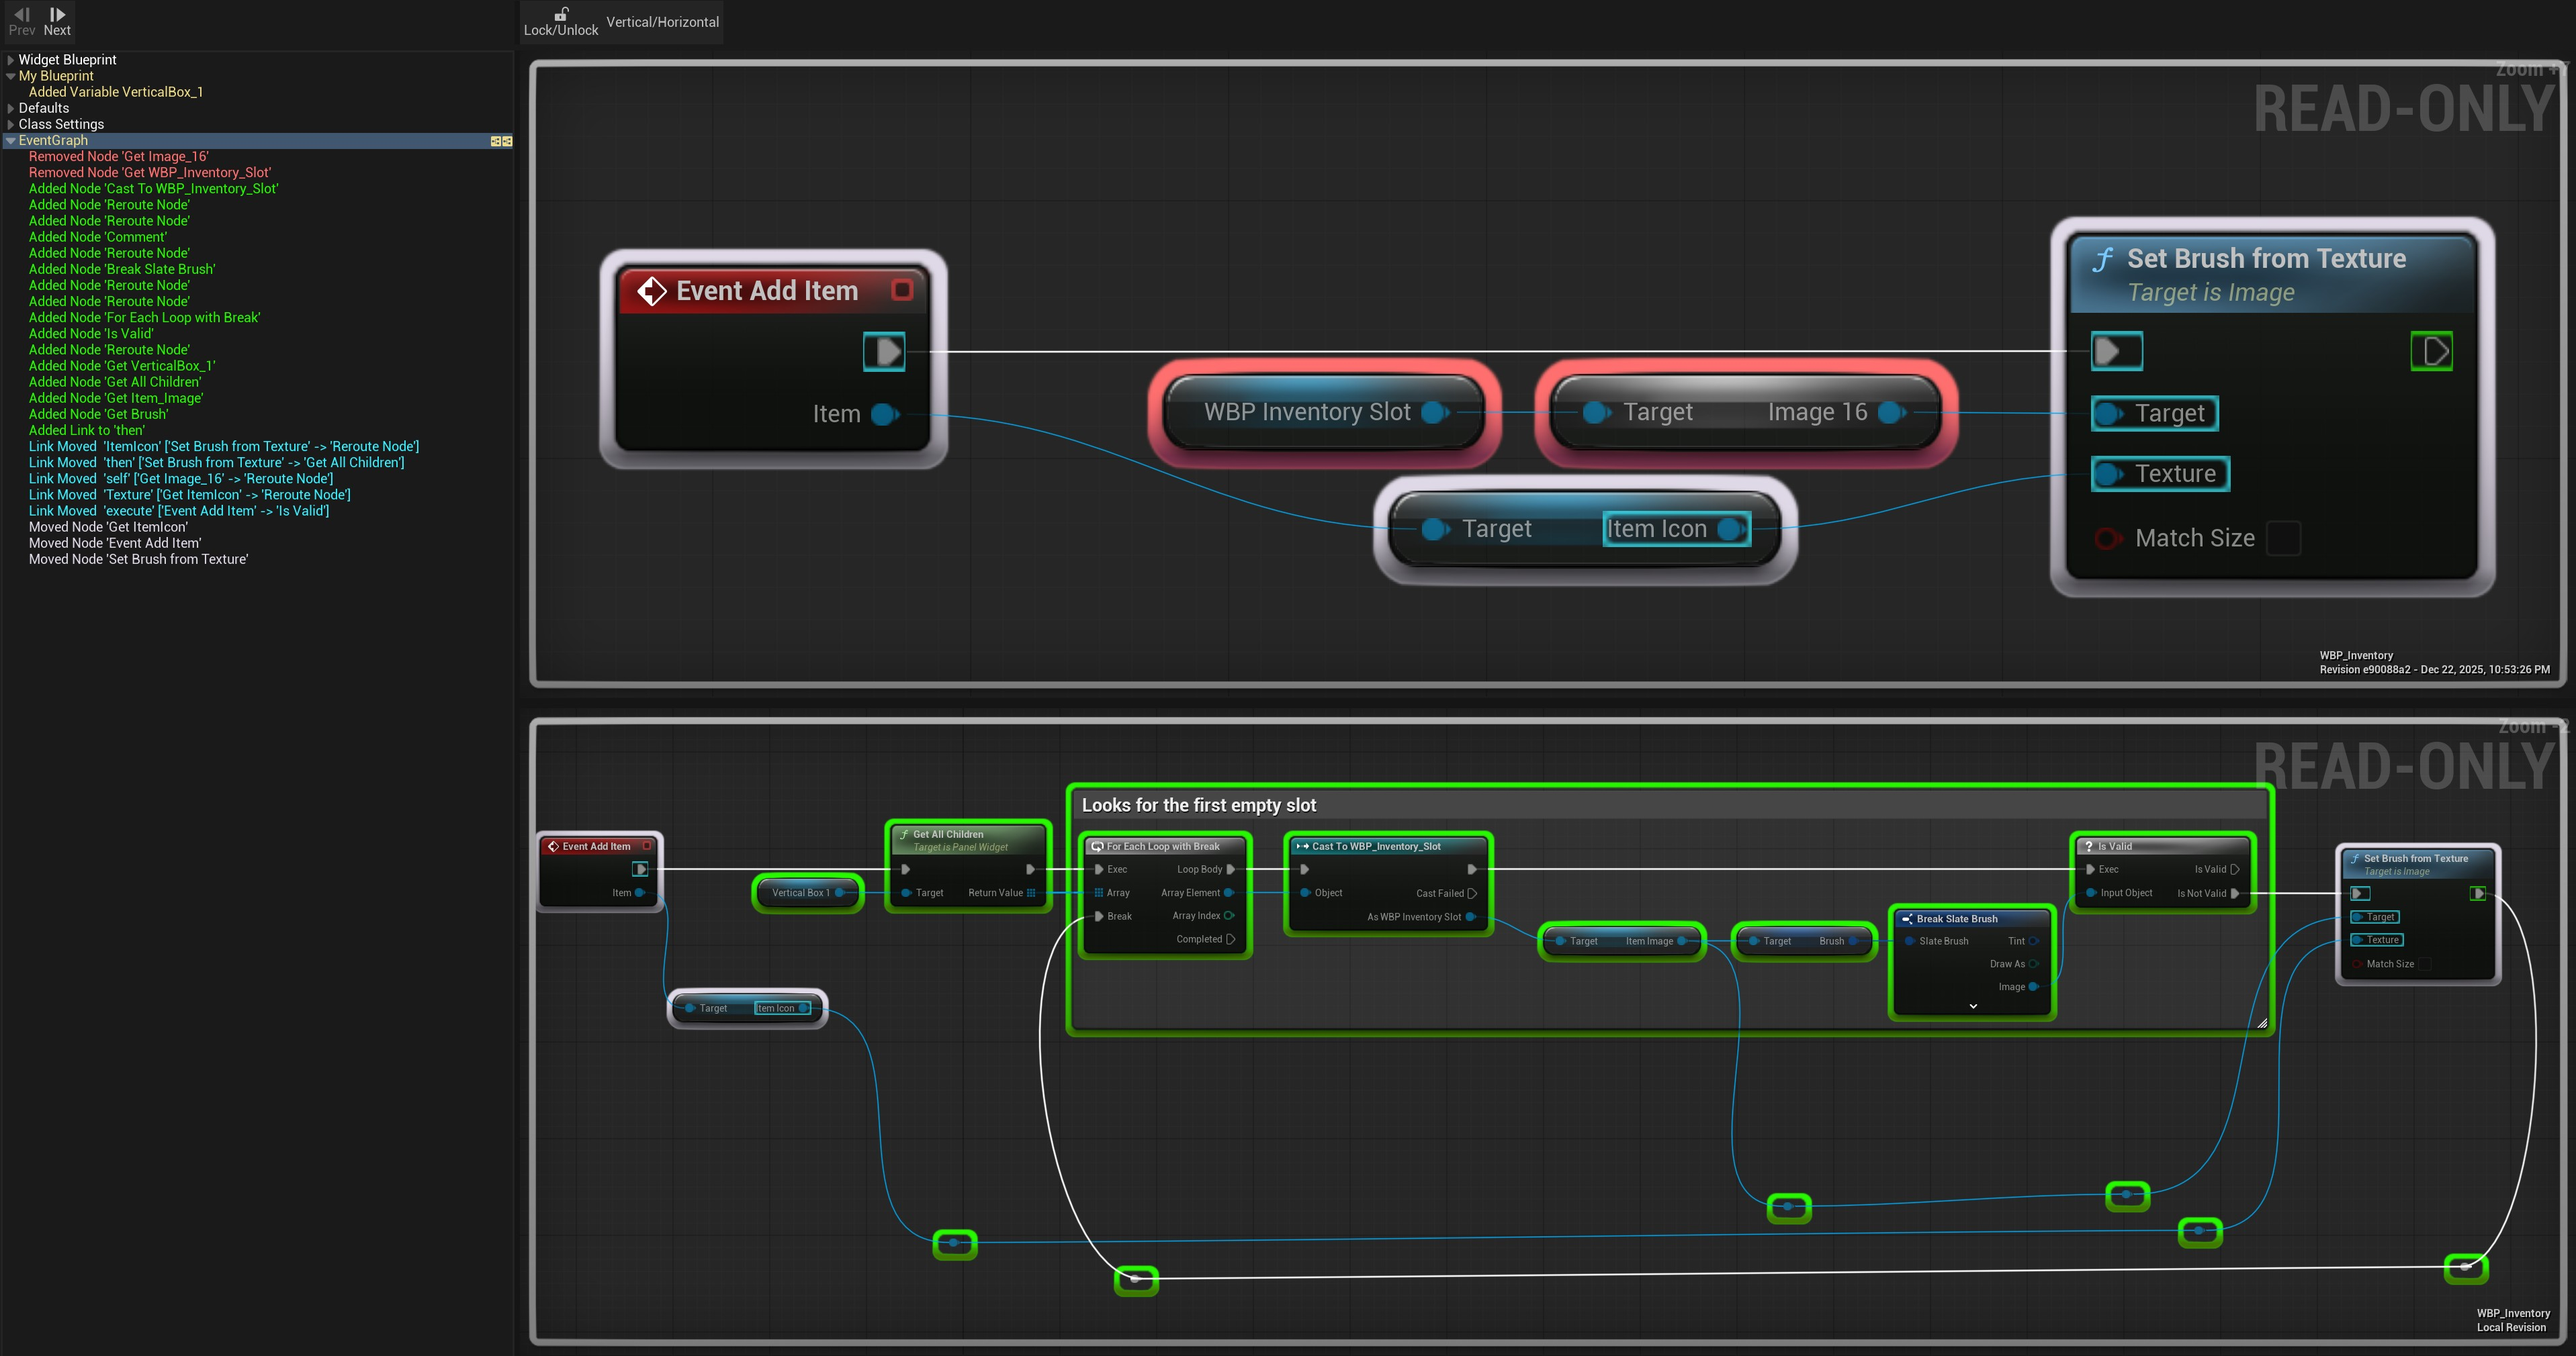
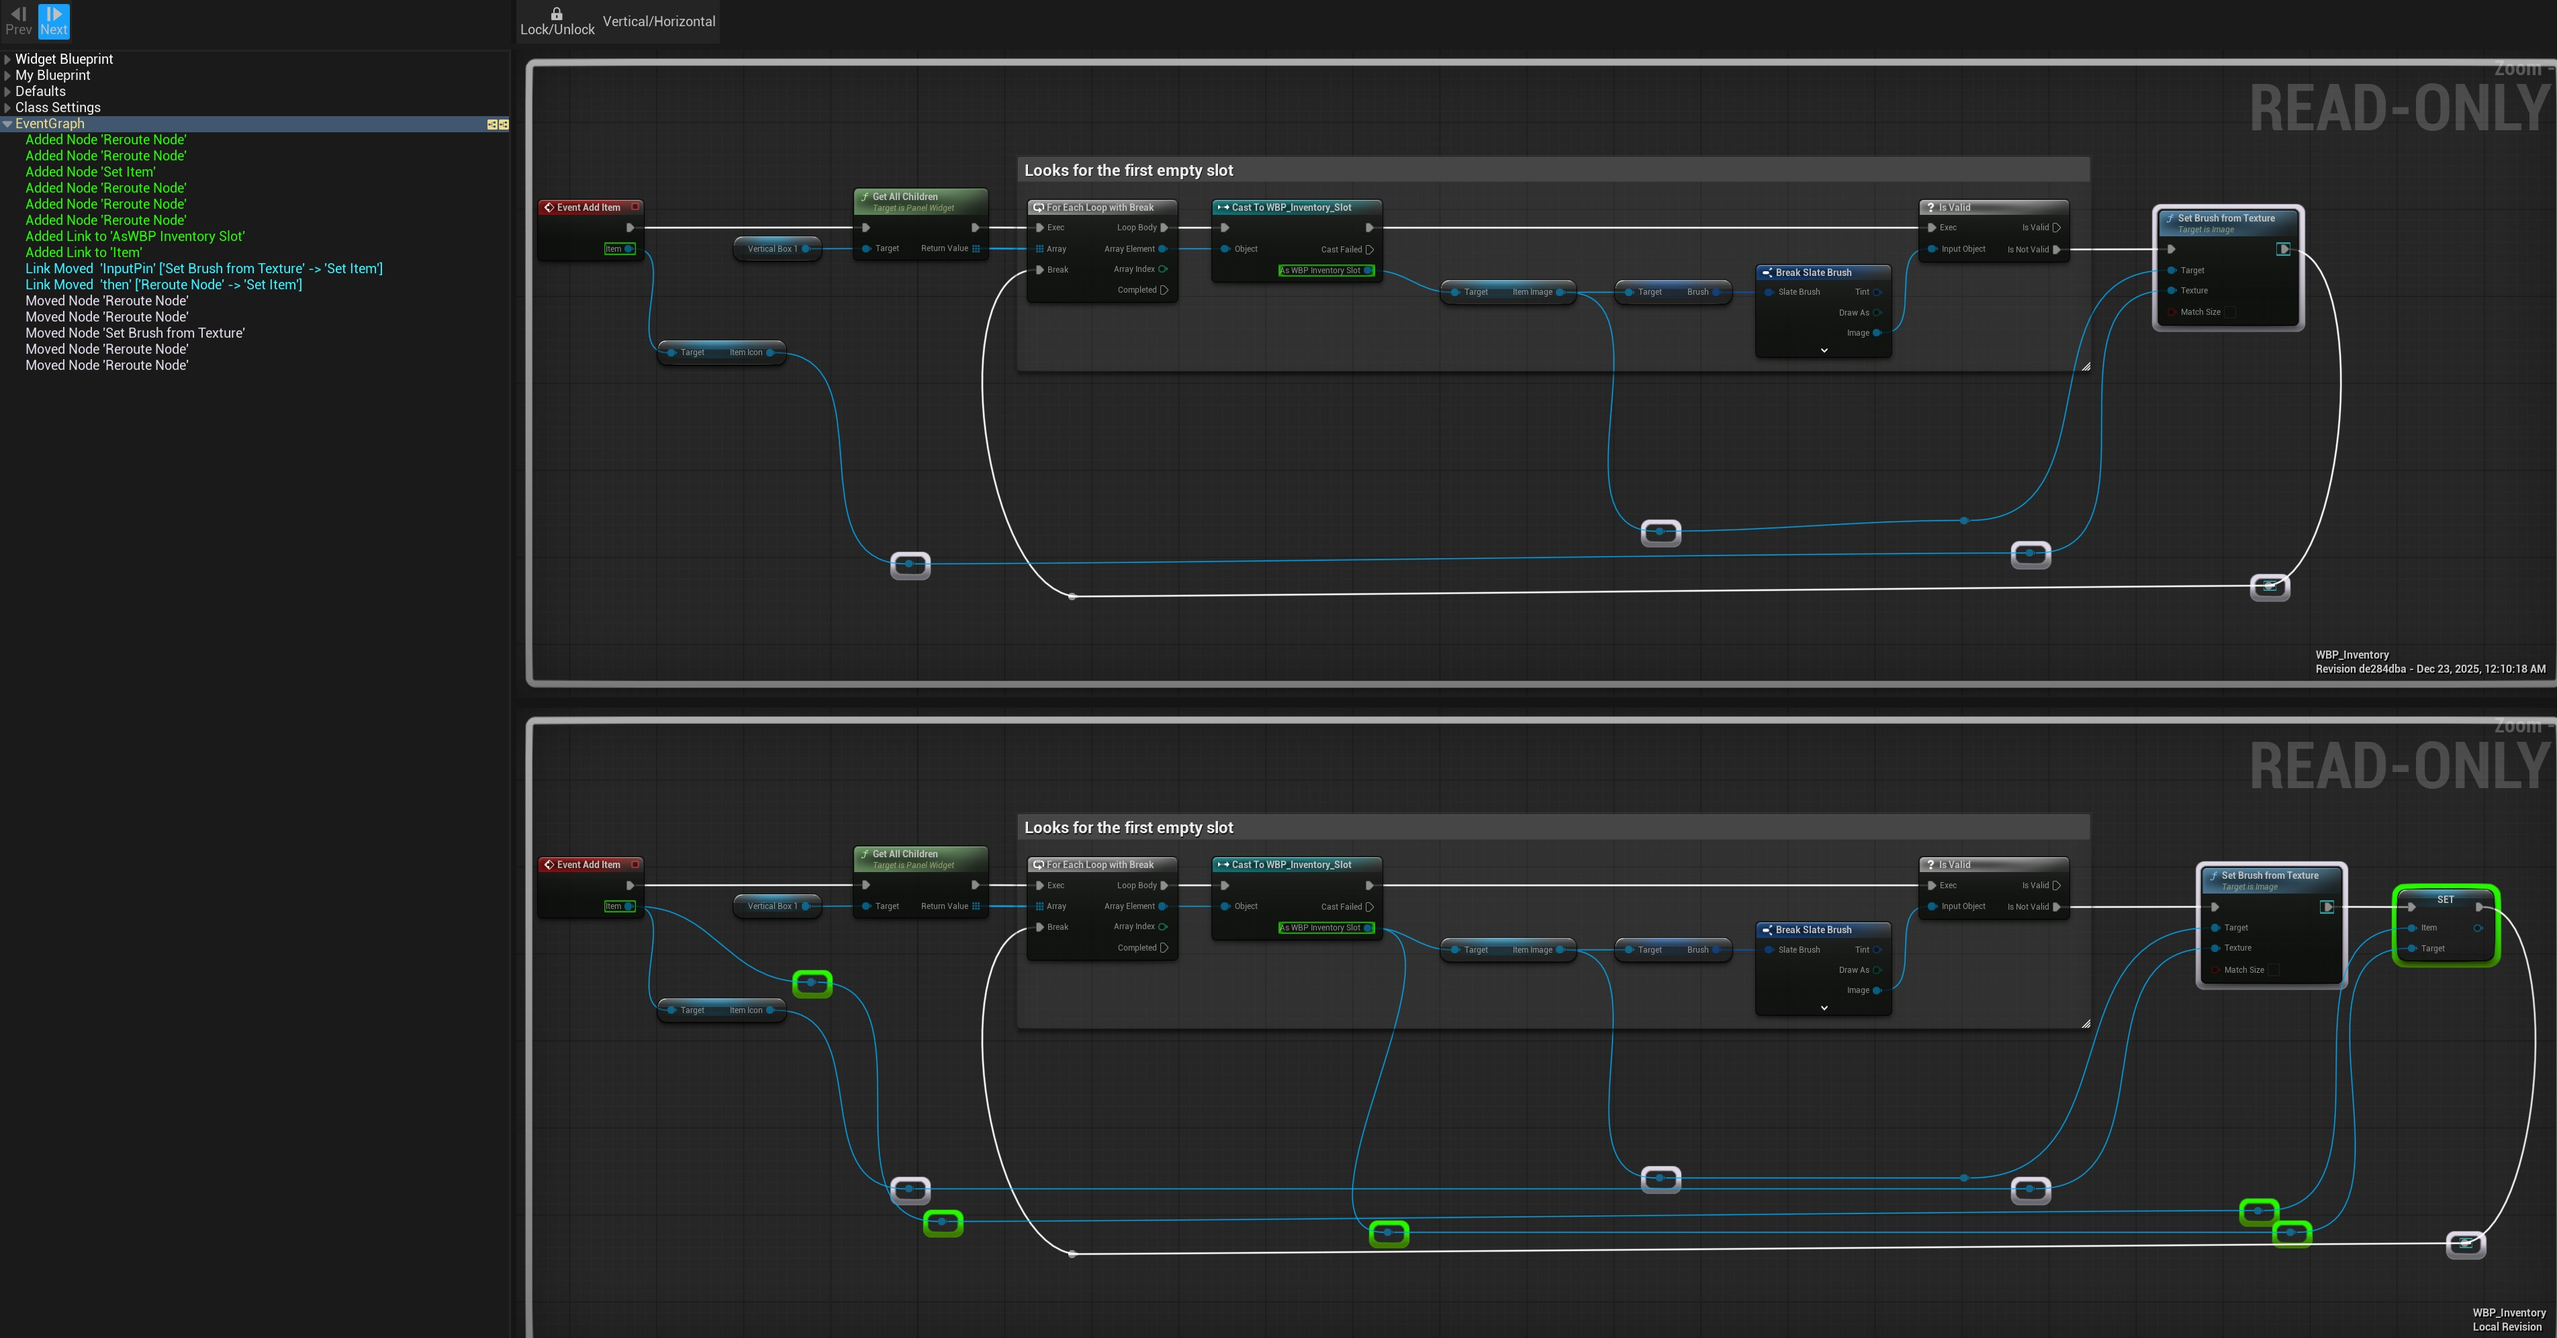
[Add Item reference in slot

diff --git a/Source/The_Turnatable/Private/UI/TTInventorySlot.cpp b/Source/The_Turnatable/Private/UI/TTInventorySlot.cpp
@@ -3,7 +3,16 @@
 
 #include "UI/TTInventorySlot.h"
 
+#include "Core/Inventory/TTItem.h"
+
 void UTTInventorySlot::Onclick()
 {
-	UE_LOG(LogTemp, Warning, TEXT("Clicked"));
+	if (Item)
+	{
+		UE_LOG(LogTemp, Warning, TEXT ("Item: %s"), *Item->ItemName.ToString());
+	}
+	else
+	{
+		UE_LOG(LogTemp, Warning, TEXT ("No Item"));
+	}
 }
